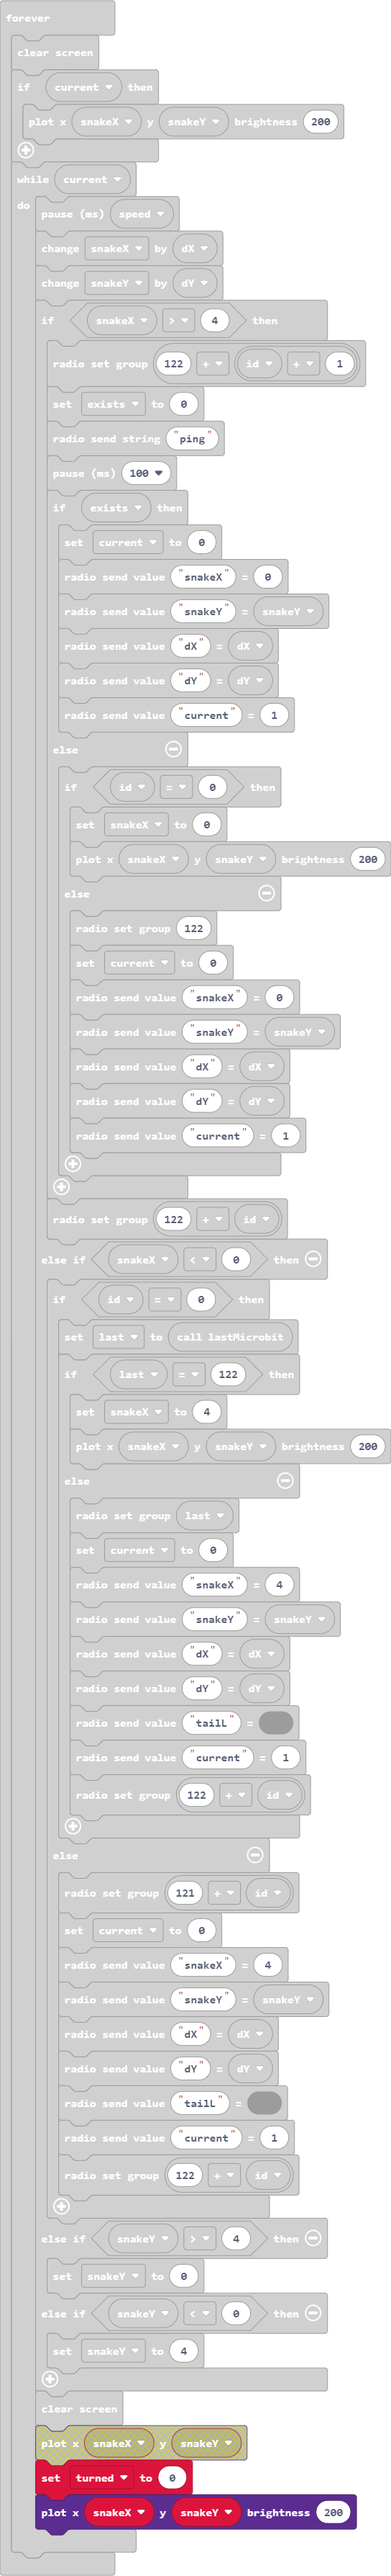
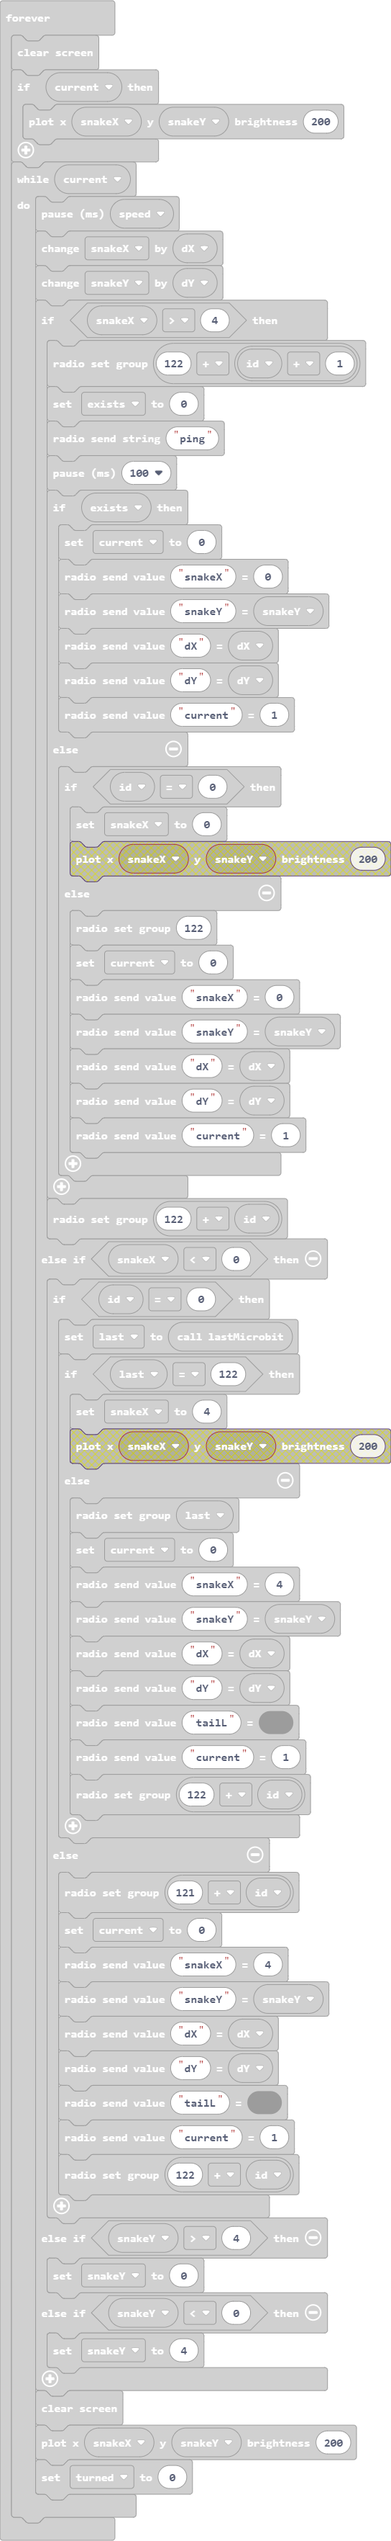
redundant

Changed region(s): [[0.0938, 0.0312, 1.0, 0.9977], [0.7812, 0.0312, 0.8438, 0.0624], [0.0625, 0.0312, 0.0938, 0.0624]]

diff --git a/main.ts b/main.ts
@@ -144,7 +144,6 @@ basic.forever(function () {
             } else {
                 if (id == 0) {
                     snakeX = 0
-                    led.plotBrightness(snakeX, snakeY, 200)
                 } else {
                     radio.setGroup(122)
                     current = 0
@@ -161,7 +160,6 @@ basic.forever(function () {
                 last = lastMicrobit()
                 if (last == 122) {
                     snakeX = 4
-                    led.plotBrightness(snakeX, snakeY, 200)
                 } else {
                     radio.setGroup(last)
                     current = 0
